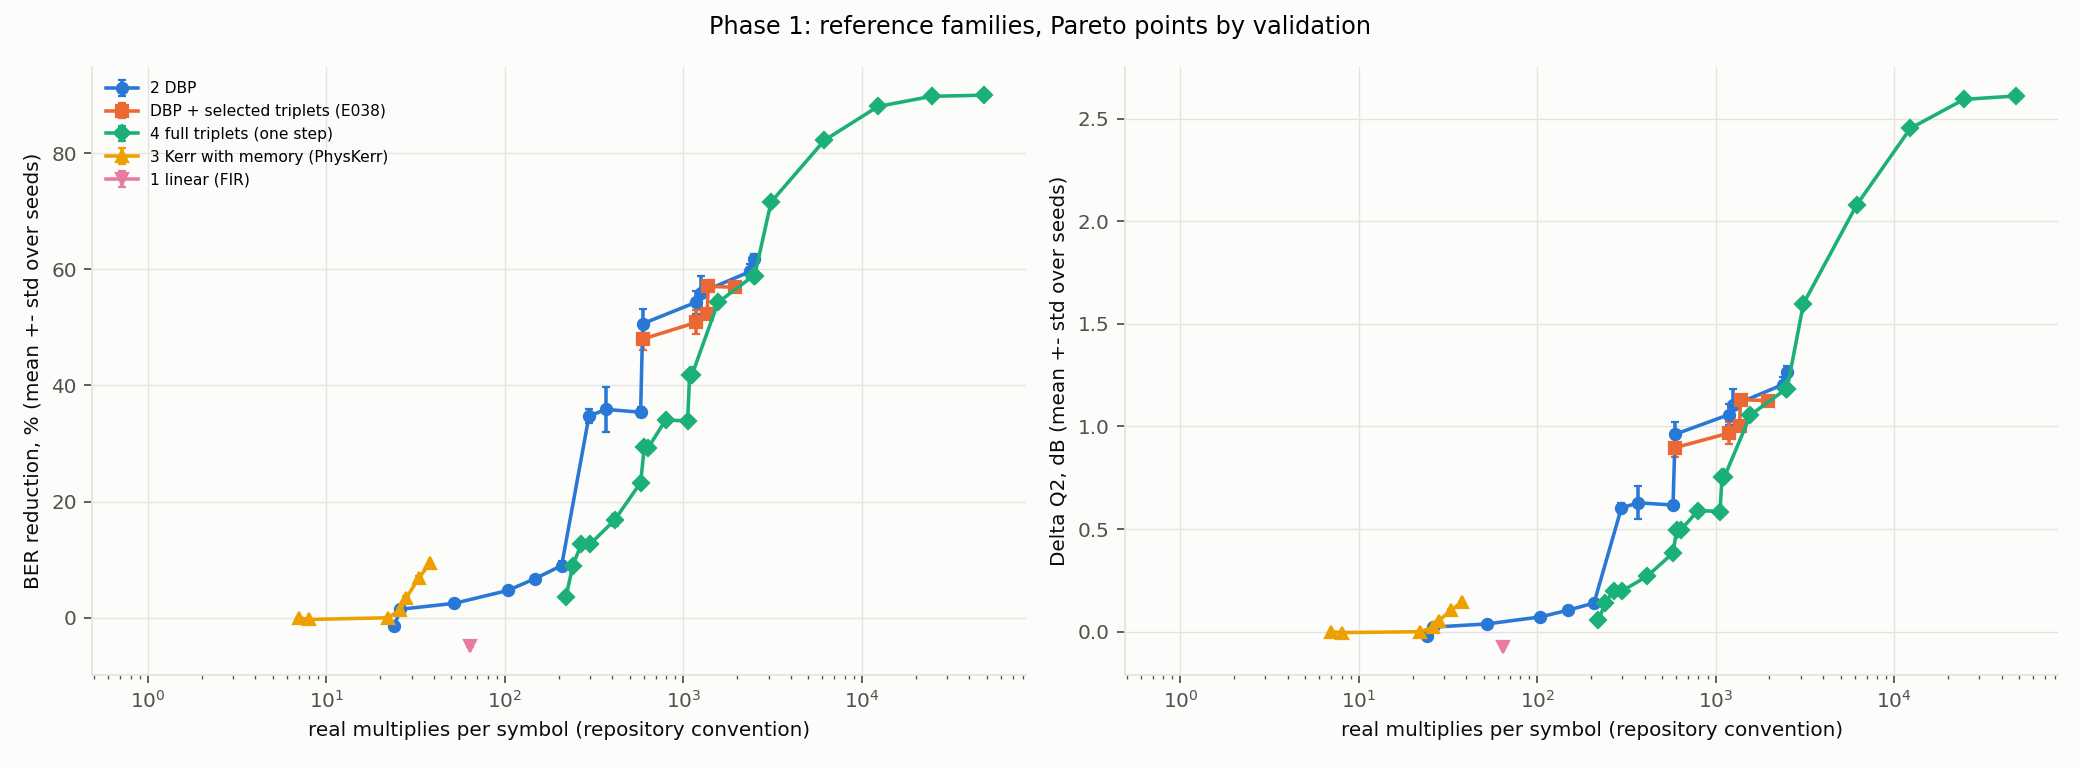
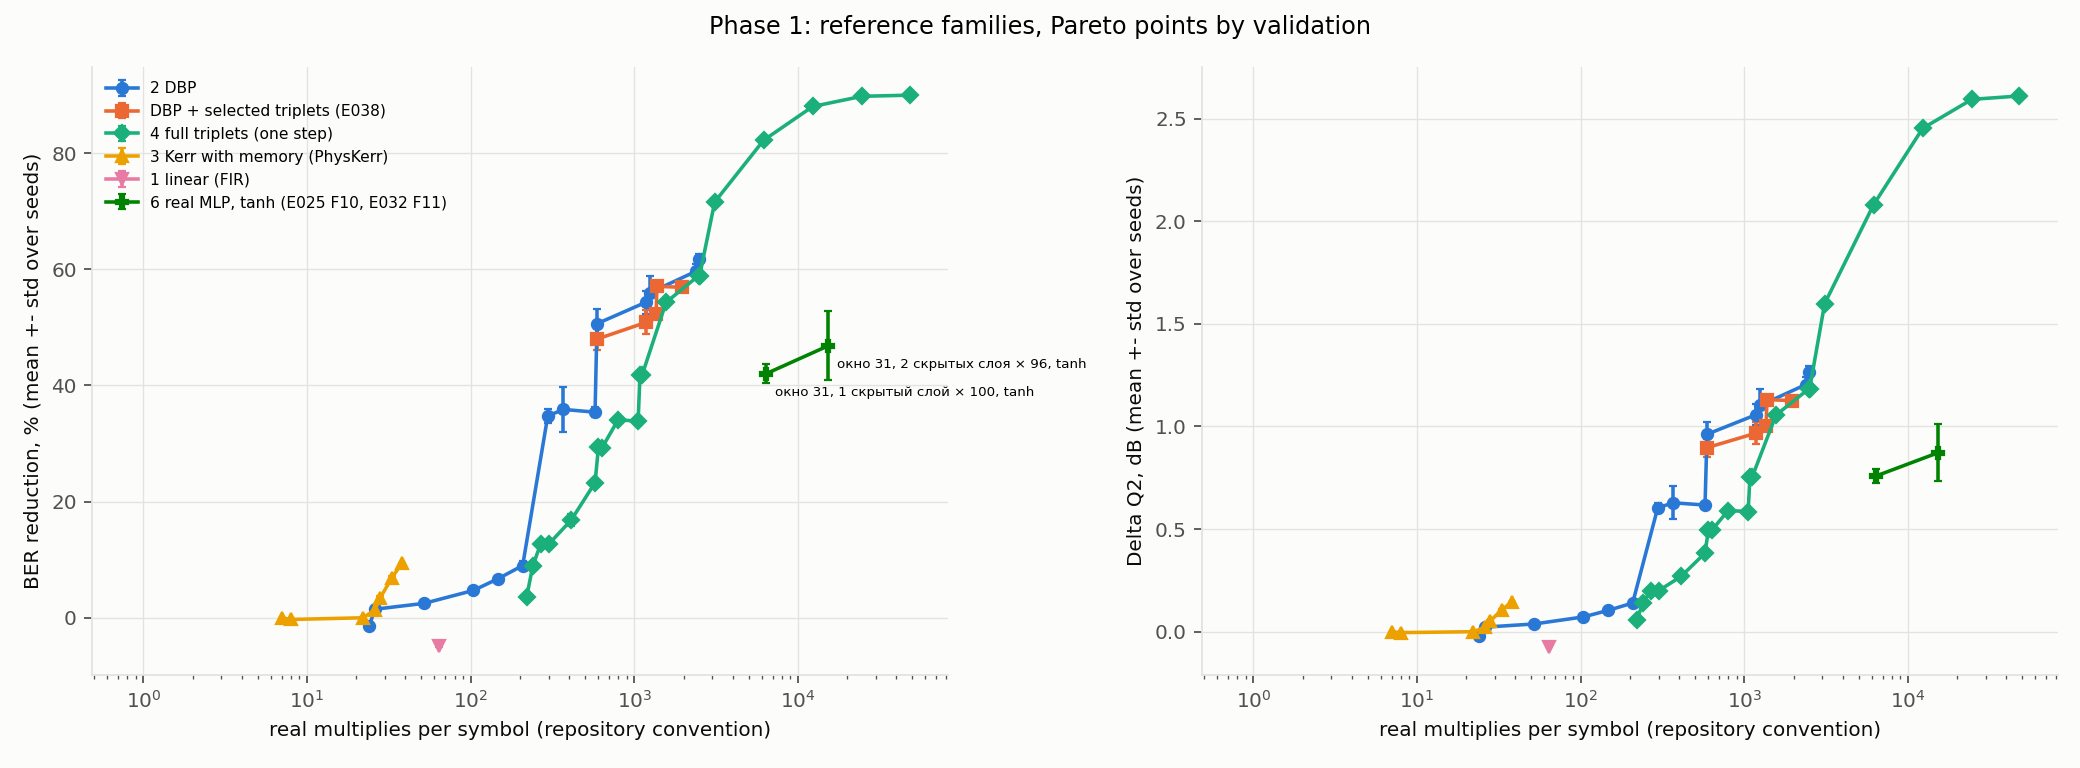
E045: вещественный tanh-MLP (E025 F10, E032 F11) в сводке BER против RM

diff --git a/src/constellation_denoiser/summarize_E045.py b/src/constellation_denoiser/summarize_E045.py
@@ -3,7 +3,9 @@
     PYTHONPATH=src python -m constellation_denoiser.summarize_E045
 
 Families: linear FIR (E022), DBP (E018/E025/E028), Kerr with memory = PhysKerr (E016/E025), full one-step triplets
-(E031/E034/E036, closed form), DBP + selected triplets (E038), cascade of triplet stages (E040, if summarized).
+(E031/E034/E036, closed form), DBP + selected triplets (E038), cascade of triplet stages (E040: stopped incomplete, not included),
+real tanh MLP (E025 F10: window 31, one hidden layer of 100, 200k steps; E032 F11: window 31, two hidden layers of 96,
+1M steps).
 Points: mean and std over training seeds (bootstrap replicas for closed form) on the E004 split; for each family the
 Pareto points chosen by validation. Writes results/references.csv, results/references_pareto.csv and
 figures/E045_references_vs_rm.png. Repository RM convention only (other conventions: E039/E043, not mixed here).
@@ -14,6 +16,7 @@ from __future__ import annotations
 import os
 import sys
 
+import numpy as np
 import pandas as pd
 
 from .pareto_v2 import envelope, load_tables, points
@@ -22,7 +25,13 @@ from .runner import exp_dir, results_root
 
 FAMILIES = {"linear FIR": "1 linear (FIR)", "DBP": "2 DBP", "PhysKerr": "3 Kerr with memory (PhysKerr)",
             "PB-NLC (triplets)": "4 full triplets (one step)", "cascade": "5 cascade of triplet stages",
-            "DBP + triplets": "DBP + selected triplets (E038)"}
+            "DBP + triplets": "DBP + selected triplets (E038)", "real MLP (tanh)": "6 real MLP, tanh (E025 F10, E032 F11)"}
+
+# real-valued tanh MLP references on [Re, Im] of the window (repository RM: 2 W h (+ h^2) + 2 h, tanh 0 RM)
+REAL_MLP = [("E025", {"e025_config": "F10_ref_current", "steps": 200000},
+             "E025 · F10 · окно 31 (62 входа), 1 скрытый слой × 100, tanh · 200k шагов"),
+            ("E032", {"variant": "real_F11", "steps": 1000000},
+             "E032 · F11 · окно 31 (62 входа), 2 скрытых слоя × 96, tanh · 1M шагов")]
 
 
 def triplet_points() -> pd.DataFrame:
@@ -67,6 +76,27 @@ def table_points(exp: str, family: str, keys: list[str]) -> pd.DataFrame:
     return g.assign(family=family, source=exp)
 
 
+def real_mlp_points() -> pd.DataFrame:
+    rows = []
+    for exp, where, label in REAL_MLP:
+        path = exp_dir(exp) / "results" / "runs_table.csv"
+        if not path.is_file():
+            continue
+        r = pd.read_csv(path)
+        for key, value in where.items():
+            r = r[r[key] == value]
+        if r.empty:
+            continue
+        raw = r.raw_ber.median()
+        q2 = [q2_db(raw * (1 - t / 100)) - q2_db(raw) for t in r.test_reduction_valbest_select]
+        t = r.test_reduction_valbest_select
+        rows.append({"family": "real MLP (tanh)", "source": exp, "label": label, "rm": r.macs_per_symbol_merged.iloc[0],
+                     "n_seeds": r.seed.nunique(), "val_mean": r.best_val_reduction.mean(), "test_mean": t.mean(),
+                     "test_std": t.std(), "test_min": t.min(), "test_max": t.max(), "q2_mean": float(np.mean(q2)),
+                     "q2_std": float(np.std(q2, ddof=1))})
+    return pd.DataFrame(rows)
+
+
 def main(argv: list[str]) -> int:
     smoke = os.environ.get("SMOKE", "0") == "1"
     directory = exp_dir("E045")
@@ -77,7 +107,8 @@ def main(argv: list[str]) -> int:
     pts = points(load_tables())
     pts = pts[pts.family.isin(["linear FIR", "DBP", "PhysKerr"])]
     frames = [pts.assign(label=pts.label), triplet_points(), table_points("E038", "DBP + triplets", ["variant"]),
-              table_points("E040", "cascade", ["variant", "stage"])]
+              real_mlp_points()]
+    # E040 (cascade) was stopped at 79 of 322 runs (1-2 seeds, LOG 2026-11-05): not part of the reference table
     refs = pd.concat([f for f in frames if len(f)], ignore_index=True, sort=False)
     refs["reference"] = refs.family.map(FAMILIES)
     cols = ["reference", "family", "label", "rm", "n_seeds", "val_mean", "test_mean", "test_std", "test_min", "test_max",
@@ -105,6 +136,10 @@ def plot(pareto: pd.DataFrame, figures) -> None:
             ax.set_xscale("log")
             ax.set_xlabel("real multiplies per symbol (repository convention)")
             ax.set_ylabel(label + " (mean +- std over seeds)")
+    real = pareto[pareto.family == "real MLP (tanh)"]
+    for _, r in real.iterrows():              # sizes of the window and the layers on the plot
+        axes[0].annotate(r.label.split(" · ")[2].replace(" (62 входа)", ""), (r.rm, r.test_mean), fontsize=6,
+                         xytext=(4, -10), textcoords="offset points")
     axes[0].legend(fontsize=7)
     fig.suptitle("Phase 1: reference families, Pareto points by validation")
     fig.tight_layout()

diff --git a/LOG.md b/LOG.md
@@ -455,3 +455,8 @@
 Сохранено: 79 готовых прогонов на сервере (`experiments/E040_triplet_cascade/results/runs/`, не удалялись), кривые в Git (`results/curves/`), сводка по готовым прогонам (стадия summarize, сессия E040_1105_1911). Прерванные прогоны без чекпоинтов потеряны.
 Вывод: не делается (неполная сетка).
 Результат (частичный, 79 прогонов, 1–2 seed, 20k шагов): лучшие точки — Ns 2, M16, K64, L7: 70.4 % (общие C 70.8 %, 1 seed) при 7 856 RM; Ns 1, M16, K256, L15: 69.5 % при 6 792 RM (`experiments/E040_triplet_cascade/results/cascade_summary.csv`). Вердикты по уровням 6k / 12k / 18k RM: «не доказано» — нет пар точек в окнах уровней (`results/cascade_verdicts.csv`).
+
+## E045 — дополнение: вещественный tanh-MLP в сводке «BER против RM» — 2026-11-05
+Что сделано: без новых запусков в `experiments/E045_reference_families/results/references.csv`, `references_pareto.csv` и `figures/E045_references_vs_rm.png` добавлено семейство «6 real MLP, tanh».
+Результат: E025 F10 — окно 31 (62 входа), 1 скрытый слой × 100, tanh, 200k шагов: 42.0 ± 1.6 % (5 seeds) при 6 400 RM; E032 F11 — окно 31, 2 скрытых слоя × 96, tanh, 1M шагов: 46.8 ± 5.9 % (3 seeds) при 15 360 RM.
+Ограничения: разные бюджеты шагов (200k и 1M) и число seeds; каскад E040 (остановлен, 79/322) в сводку не включён.
